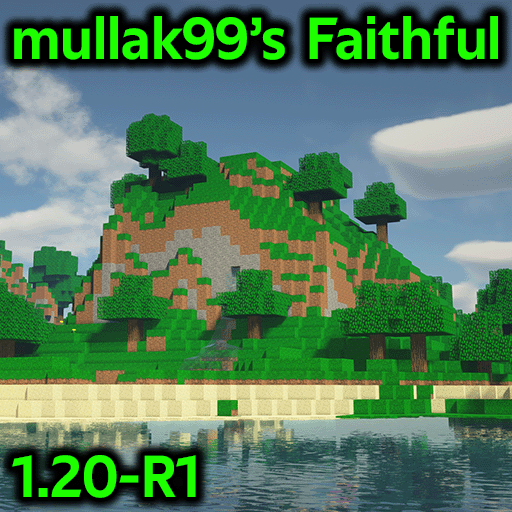
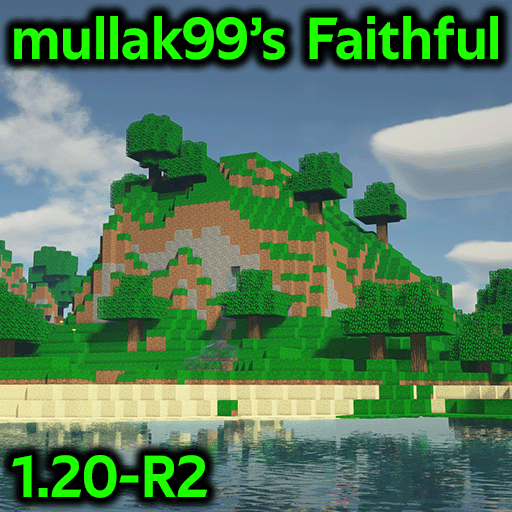
1.20-R2

Changed region(s): [[0.3438, 0.8438, 0.4375, 1.0]]

diff --git a/ChangeLog.md b/ChangeLog.md
@@ -1,6 +1,14 @@
 # Changelog
 All notable changes to mullak99's Faithful will be documented in this file.
 
+## [MC1.20-R2] - 2024-02-04
+### Added
+- Added 1.20.3 short_grass as an overlay
+- Added various 1.21 snapshot textures
+
+### Changed
+- Included changes from CF (PA)
+
 ## [MC1.20-R1] - 2023-10-30
 ### Added
 - Added 1.20 textures

diff --git a/README.md b/README.md
@@ -1,6 +1,6 @@
 # mullak99's Faithful 32x
 
-**Current Branch Version:** _MC1.20-R1_  
+**Current Branch Version:** _MC1.20-R2_  
 
 ## Official Links
 
